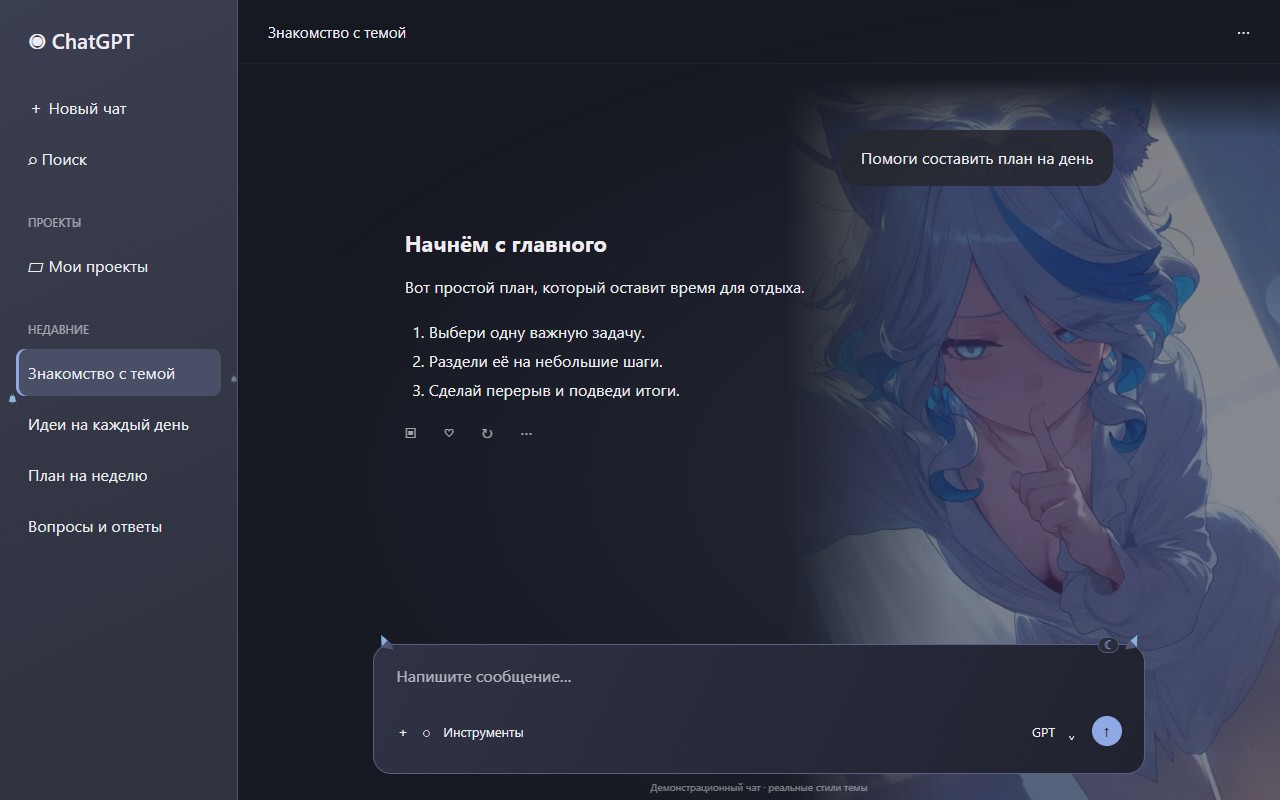
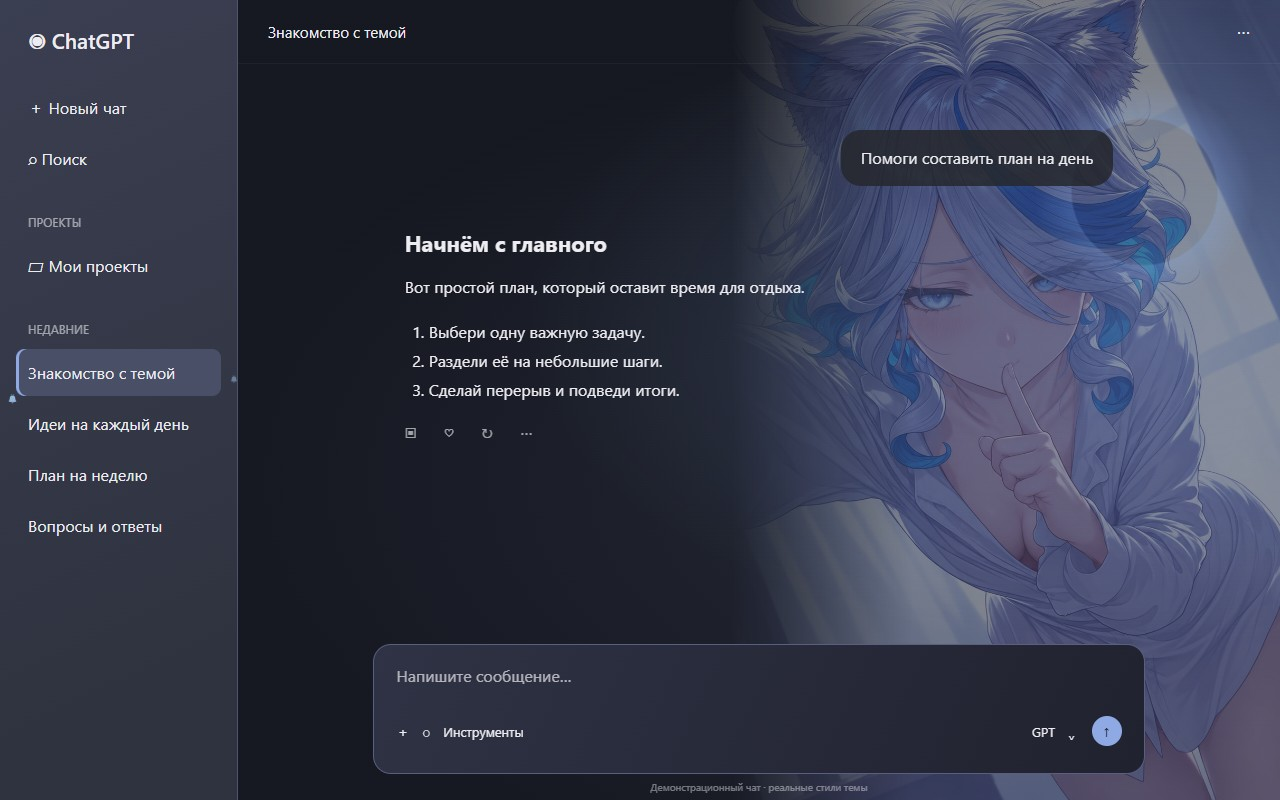
Release 2.5.9 with new Furina portraits and full-height Blue Cat

diff --git a/themes/blue-cat-nocturne/theme.css b/themes/blue-cat-nocturne/theme.css
@@ -14,10 +14,10 @@ html.codex-theme-studio .main-surface:not(.main-surface .main-surface) {
 }
 html.codex-theme-studio .main-surface:not(.main-surface .main-surface)::before {
   content: ""; position: absolute; z-index: -1; pointer-events: none;
-  inset: auto 0 0 auto; height: 90%; aspect-ratio: var(--ratio); max-width: 100%;
+  inset: 0 0 0 auto; height: 100%; aspect-ratio: var(--ratio); max-width: 100%;
   background: var(--cts-asset-portrait) right bottom / auto 100% no-repeat;
   opacity: .44;
-  mask-image: linear-gradient(90deg,transparent,#000 33%),linear-gradient(180deg,transparent,#000 8%);
+  mask-image: linear-gradient(90deg,transparent,#000 33%);
   mask-composite: intersect;
 }
 html.codex-theme-studio .app-shell-left-panel {

diff --git a/README.md b/README.md
@@ -8,26 +8,26 @@
 
 **Для обычного использования клонировать репозиторий не нужно.** Скачайте готовую сборку для своей системы. Git, Node.js и Codex App Manager для её запуска не нужны. Совместимый ChatGPT должен быть установлен отдельно.
 
-Прямые ссылки на **версию 2.5.8**:
+Прямые ссылки на **версию 2.5.9**:
 
 | Система | Скачать | Как запустить |
 | --- | --- | --- |
-| **Windows x64** | [Готовая папка ZIP](https://github.com/ZLHRS/codex-anime-themes/releases/download/v2.5.8/ZLHRS-Theme-Studio-2.5.8-win-x64-portable.zip) | Распакуйте всю папку и откройте **ZLHRS Theme Studio.exe**. Установка не нужна. |
-| **Mac — Apple Silicon (M1/M2/M3/M4 и новее)** | [ZIP для Apple Silicon](https://github.com/ZLHRS/codex-anime-themes/releases/download/v2.5.8/ZLHRS-Theme-Studio-2.5.8-mac-arm64.zip) | Распакуйте архив, перенесите **ZLHRS Theme Studio.app** в «Программы» и откройте. |
-| **Mac — Intel** | [ZIP для Intel](https://github.com/ZLHRS/codex-anime-themes/releases/download/v2.5.8/ZLHRS-Theme-Studio-2.5.8-mac-x64.zip) | Распакуйте архив, перенесите **ZLHRS Theme Studio.app** в «Программы» и откройте. |
-| **Linux x64 — без установки** | [AppImage](https://github.com/ZLHRS/codex-anime-themes/releases/download/v2.5.8/ZLHRS-Theme-Studio-2.5.8-linux-x86_64.AppImage) | В свойствах файла разрешите выполнение как программы, затем запустите его. |
-| **Linux x64 — Debian/Ubuntu** | [Пакет DEB](https://github.com/ZLHRS/codex-anime-themes/releases/download/v2.5.8/ZLHRS-Theme-Studio-2.5.8-linux-amd64.deb) | Установите пакет через менеджер приложений и откройте Studio. |
+| **Windows x64** | [Готовая папка ZIP](https://github.com/ZLHRS/codex-anime-themes/releases/download/v2.5.9/ZLHRS-Theme-Studio-2.5.9-win-x64-portable.zip) | Распакуйте всю папку и откройте **ZLHRS Theme Studio.exe**. Установка не нужна. |
+| **Mac — Apple Silicon (M1/M2/M3/M4 и новее)** | [ZIP для Apple Silicon](https://github.com/ZLHRS/codex-anime-themes/releases/download/v2.5.9/ZLHRS-Theme-Studio-2.5.9-mac-arm64.zip) | Распакуйте архив, перенесите **ZLHRS Theme Studio.app** в «Программы» и откройте. |
+| **Mac — Intel** | [ZIP для Intel](https://github.com/ZLHRS/codex-anime-themes/releases/download/v2.5.9/ZLHRS-Theme-Studio-2.5.9-mac-x64.zip) | Распакуйте архив, перенесите **ZLHRS Theme Studio.app** в «Программы» и откройте. |
+| **Linux x64 — без установки** | [AppImage](https://github.com/ZLHRS/codex-anime-themes/releases/download/v2.5.9/ZLHRS-Theme-Studio-2.5.9-linux-x86_64.AppImage) | В свойствах файла разрешите выполнение как программы, затем запустите его. |
+| **Linux x64 — Debian/Ubuntu** | [Пакет DEB](https://github.com/ZLHRS/codex-anime-themes/releases/download/v2.5.9/ZLHRS-Theme-Studio-2.5.9-linux-amd64.deb) | Установите пакет через менеджер приложений и откройте Studio. |
 
 **Windows ZIP предназначен только для Windows.** Для Mac и Linux используйте соответствующие ссылки. Тип процессора Mac можно посмотреть в меню Apple → «Об этом Mac».
 
 [Все выпуски и последние версии](https://github.com/ZLHRS/codex-anime-themes/releases/latest).
 
-## Что нового в 2.5.8
+## Что нового в 2.5.9
 
-- Улучшены чёткость и детализация изображений Azure Morpho и C.C. · Mint Contract. При восстановлении отдельные детали могут отличаться от исходников.
-- У Sora · Silver Ribbon убран повторяющийся узор со всего фона, сохранено мягкое свечение.
-- Добавлены Tidal Halo и Tidal Halo · Twin Current: вертикальные изображения, плавные края и согласованная рисовка. Всего 27 тем.
-- Изображения Blue Cat Nocturne и Moonlit Repose сохранены без изменений: автоматический редактор отклонил их обработку.
+- Blue Cat Nocturne и Moonlit Repose используют новые изображения повышенного качества.
+- Картинка Blue Cat Nocturne занимает всю высоту от верхнего до нижнего края, сохраняет пропорции и мягкий переход слева.
+- Положение, яркость и оформление Moonlit Repose сохранены. Новые изображения и исправления включены во все установочные архивы и доступны через «Подтянуть изменения».
+- Сохранены все 27 тем, включая Tidal Halo, и улучшения предыдущего выпуска.
 
 ## Как включить тему
 
@@ -60,11 +60,11 @@
 
 Во вкладке «Инструкция» внутри приложения доступны короткие шаги настройки.
 
-## Настройки оформления (2.5.8)
+## Настройки оформления (2.5.9)
 
 В разделе «Настроить выбранную тему» доступны яркость, размер и положение картинки по горизонтали и вертикали. Нажмите **«Применить настройки»**: значения сохранятся отдельно для выбранной темы и восстановятся после перезапуска. **«Сбросить настройки этой темы»** вернёт исходное оформление только для неё. В теме с двумя персонажами обе картинки настраиваются вместе.
 
-У каждой темы свой декоративный эффект: лунный свет, бабочки, цветы, водяные блики, кольца энергии или подсветка деталей. Переключатель **«Анимации»** оставляет эффекты неподвижными; **«Декоративные эффекты»** полностью отключает добавленные украшения. Системная настройка уменьшения движения также учитывается. Настройки включены в готовые сборки 2.5.8.
+У каждой темы свой декоративный эффект: лунный свет, бабочки, цветы, водяные блики, кольца энергии или подсветка деталей. Переключатель **«Анимации»** оставляет эффекты неподвижными; **«Декоративные эффекты»** полностью отключает добавленные украшения. Системная настройка уменьшения движения также учитывается. Настройки включены в готовые сборки 2.5.9.
 
 ## Готовая сборка или исходники — в чём разница
 
@@ -238,4 +238,4 @@ npm run dist             # сборка для текущей системы в 
 
 ### Переход со старого запускателя Windows
 
-Начиная с 2.5.8 Studio останавливает прежний Theme-Engine и удерживает его блокировку до своего выхода. Старый запускатель больше не может попеременно возвращать другую тему. На чистой установке эта защита не запускает дополнительных процессов.
+Начиная с 2.5.7 Studio останавливает прежний Theme-Engine и удерживает его блокировку до своего выхода. Старый запускатель больше не может попеременно возвращать другую тему. На чистой установке эта защита не запускает дополнительных процессов.
